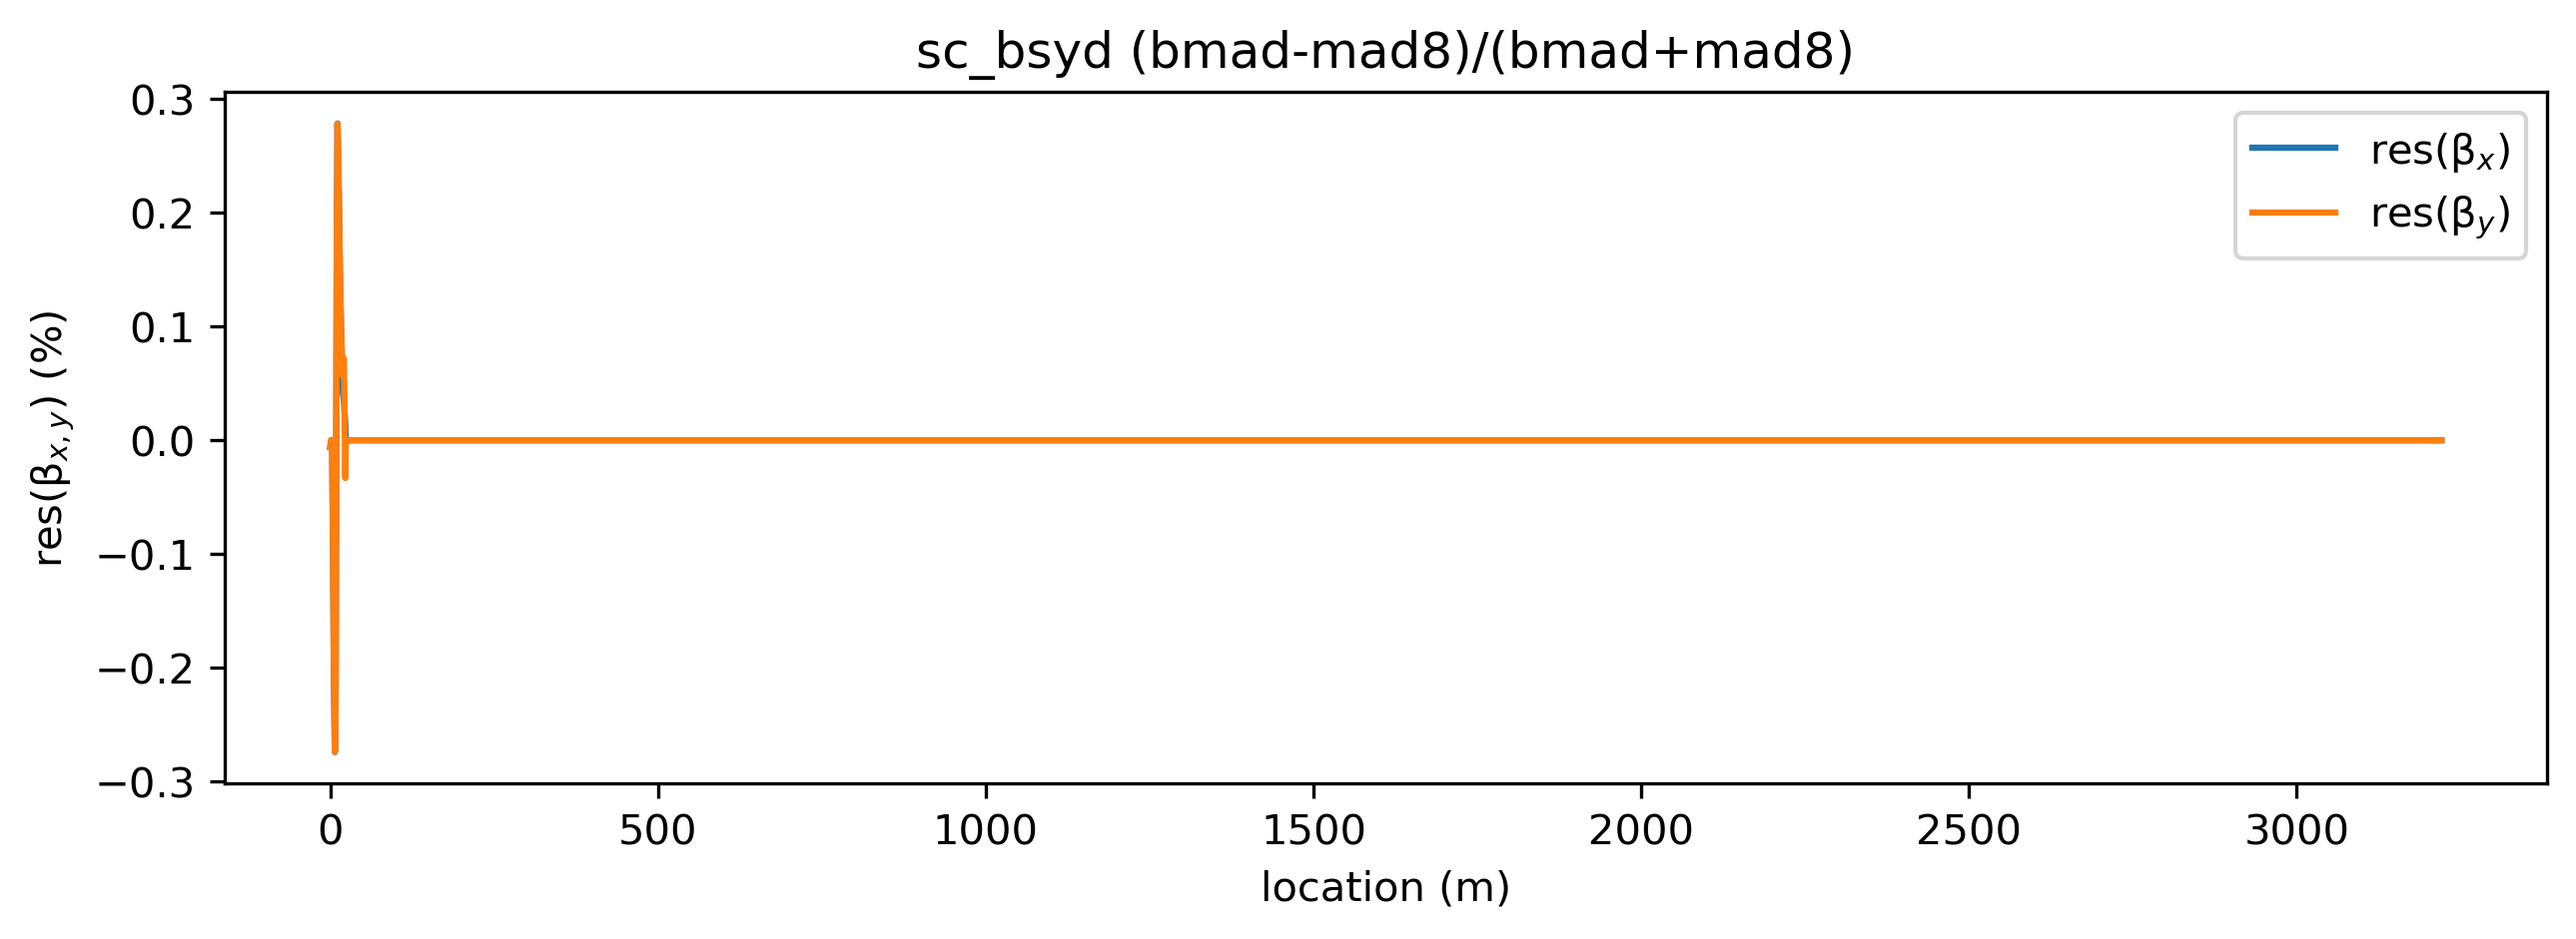
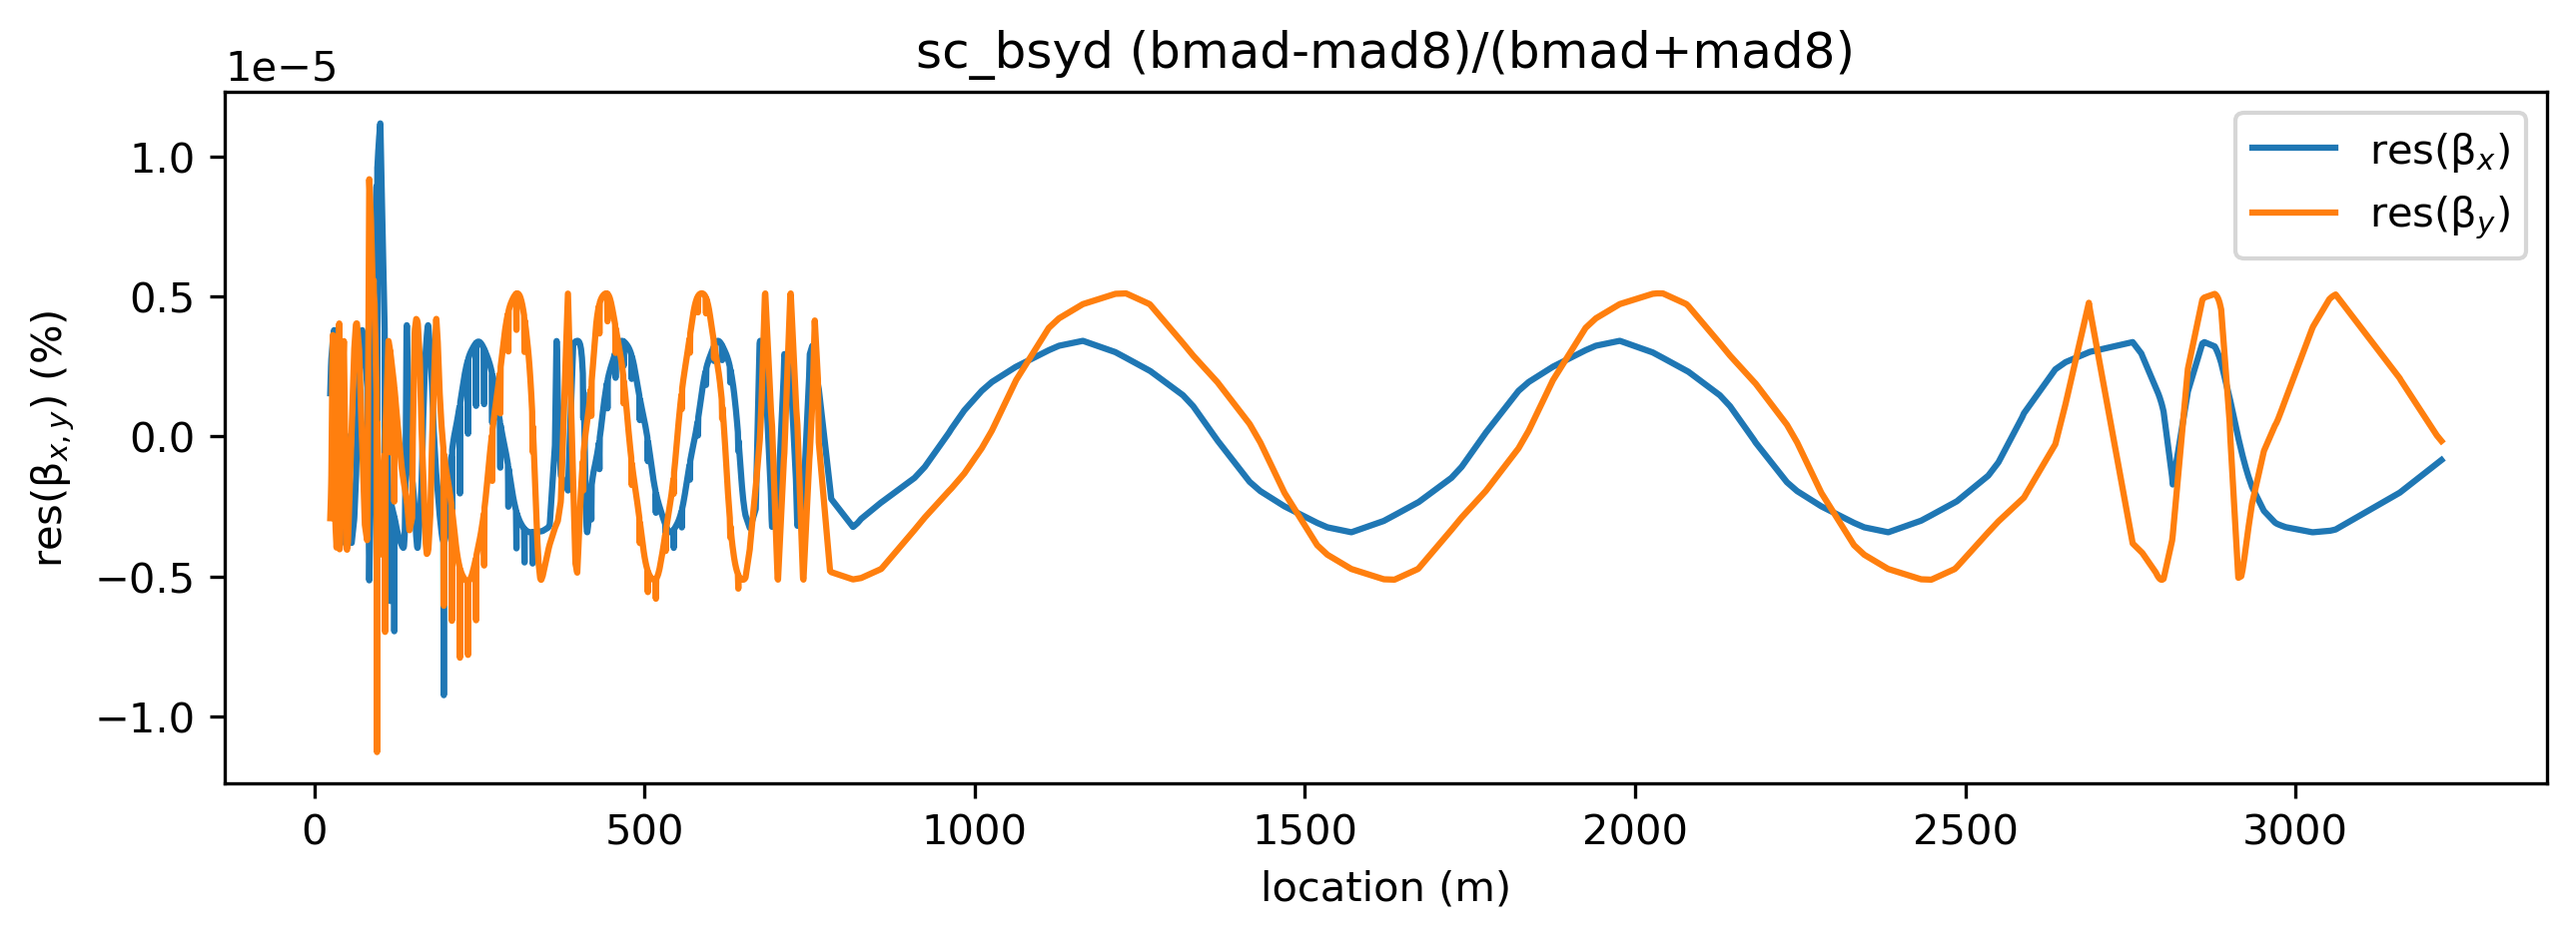
updating documentation plots

diff --git a/python/scripts/residuals.py b/python/scripts/residuals.py
@@ -24,6 +24,17 @@ MODELS = [
 'sc_diag0',
 ]
 
+XMINS = [
+24.345,  #OTR0H04
+24.345,
+24.345,
+24.345,
+0,
+0,
+0,
+24.345,
+]
+
 def get_twiss_pytao(model):
   lattice_file = 'bmad/models/'+model+'/'+model+'.lat.bmad'
   twiss = {}
@@ -44,7 +55,7 @@ def get_twiss_mad8(model):
   twiss['s']     = [float(x[1]) for x in mad8_data]
   return twiss
 
-for model in MODELS:
+for model,xmin in zip(MODELS,XMINS):
   with open('residual_'+model+'.dat','w') as f:
     s_data = []
     bx_data = []
@@ -55,8 +66,9 @@ for model in MODELS:
     twiss_mad8 = get_twiss_mad8(model)
 
     last = -99.0
+    low_energy_cutoff = xmin #m
     for bmad_s,bmad_bx,bmad_by in zip(twiss_bmad['s'], twiss_bmad['betax'], twiss_bmad['betay']):
-      if bmad_s > last + 1e-6:
+      if bmad_s > last + 1e-6 and bmad_s > low_energy_cutoff:
         for mad_s,mad_bx,mad_by in zip(twiss_mad8['s'], twiss_mad8['betax'], twiss_mad8['betay']):
           if( abs(bmad_s-mad_s) < 1e-5 ):
             bx_res = (bmad_bx-mad_bx)/(bmad_bx+mad_bx)
